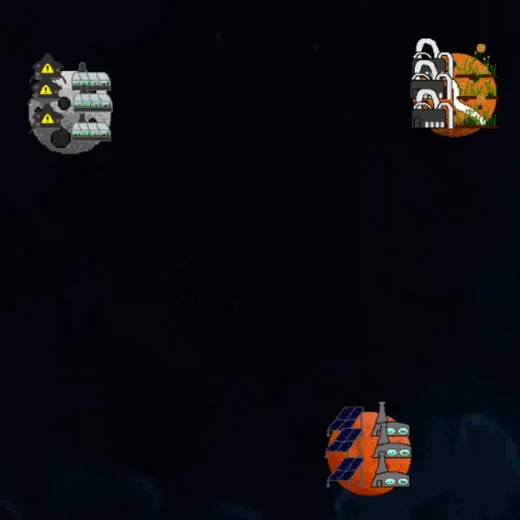
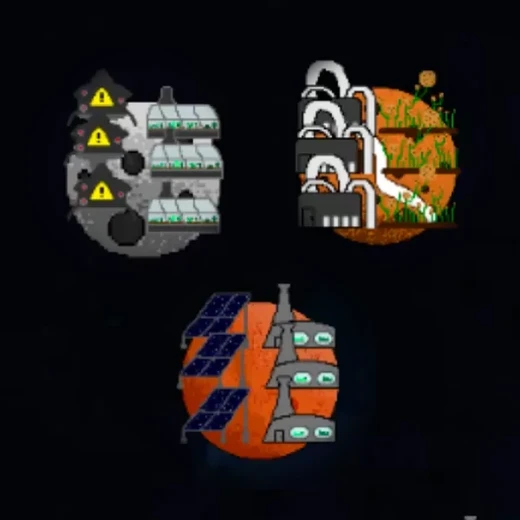
Planet Pioneers thumbnail: planets composed closer together

diff --git a/index.html b/index.html
@@ -21,7 +21,7 @@
 <link rel="preconnect" href="https://fonts.gstatic.com" crossorigin>
 <link href="https://fonts.googleapis.com/css2?family=Inter:wght@400;500;600;700&family=JetBrains+Mono:wght@400;500;600&family=Caveat:wght@600&display=swap" rel="stylesheet">
 
-<link rel="stylesheet" href="css/style.css?v=62">
+<link rel="stylesheet" href="css/style.css?v=63">
 </head>
 <body>
 
@@ -225,11 +225,11 @@
   </div>
 </div>
 
-<script src="js/data.js?v=62"></script>
-<script src="js/icons.js?v=62"></script>
-<script src="js/boids.js?v=62"></script>
-<script src="js/lightbox.js?v=62"></script>
-<script src="js/fossils.js?v=62"></script>
-<script src="js/main.js?v=62"></script>
+<script src="js/data.js?v=63"></script>
+<script src="js/icons.js?v=63"></script>
+<script src="js/boids.js?v=63"></script>
+<script src="js/lightbox.js?v=63"></script>
+<script src="js/fossils.js?v=63"></script>
+<script src="js/main.js?v=63"></script>
 </body>
 </html>
